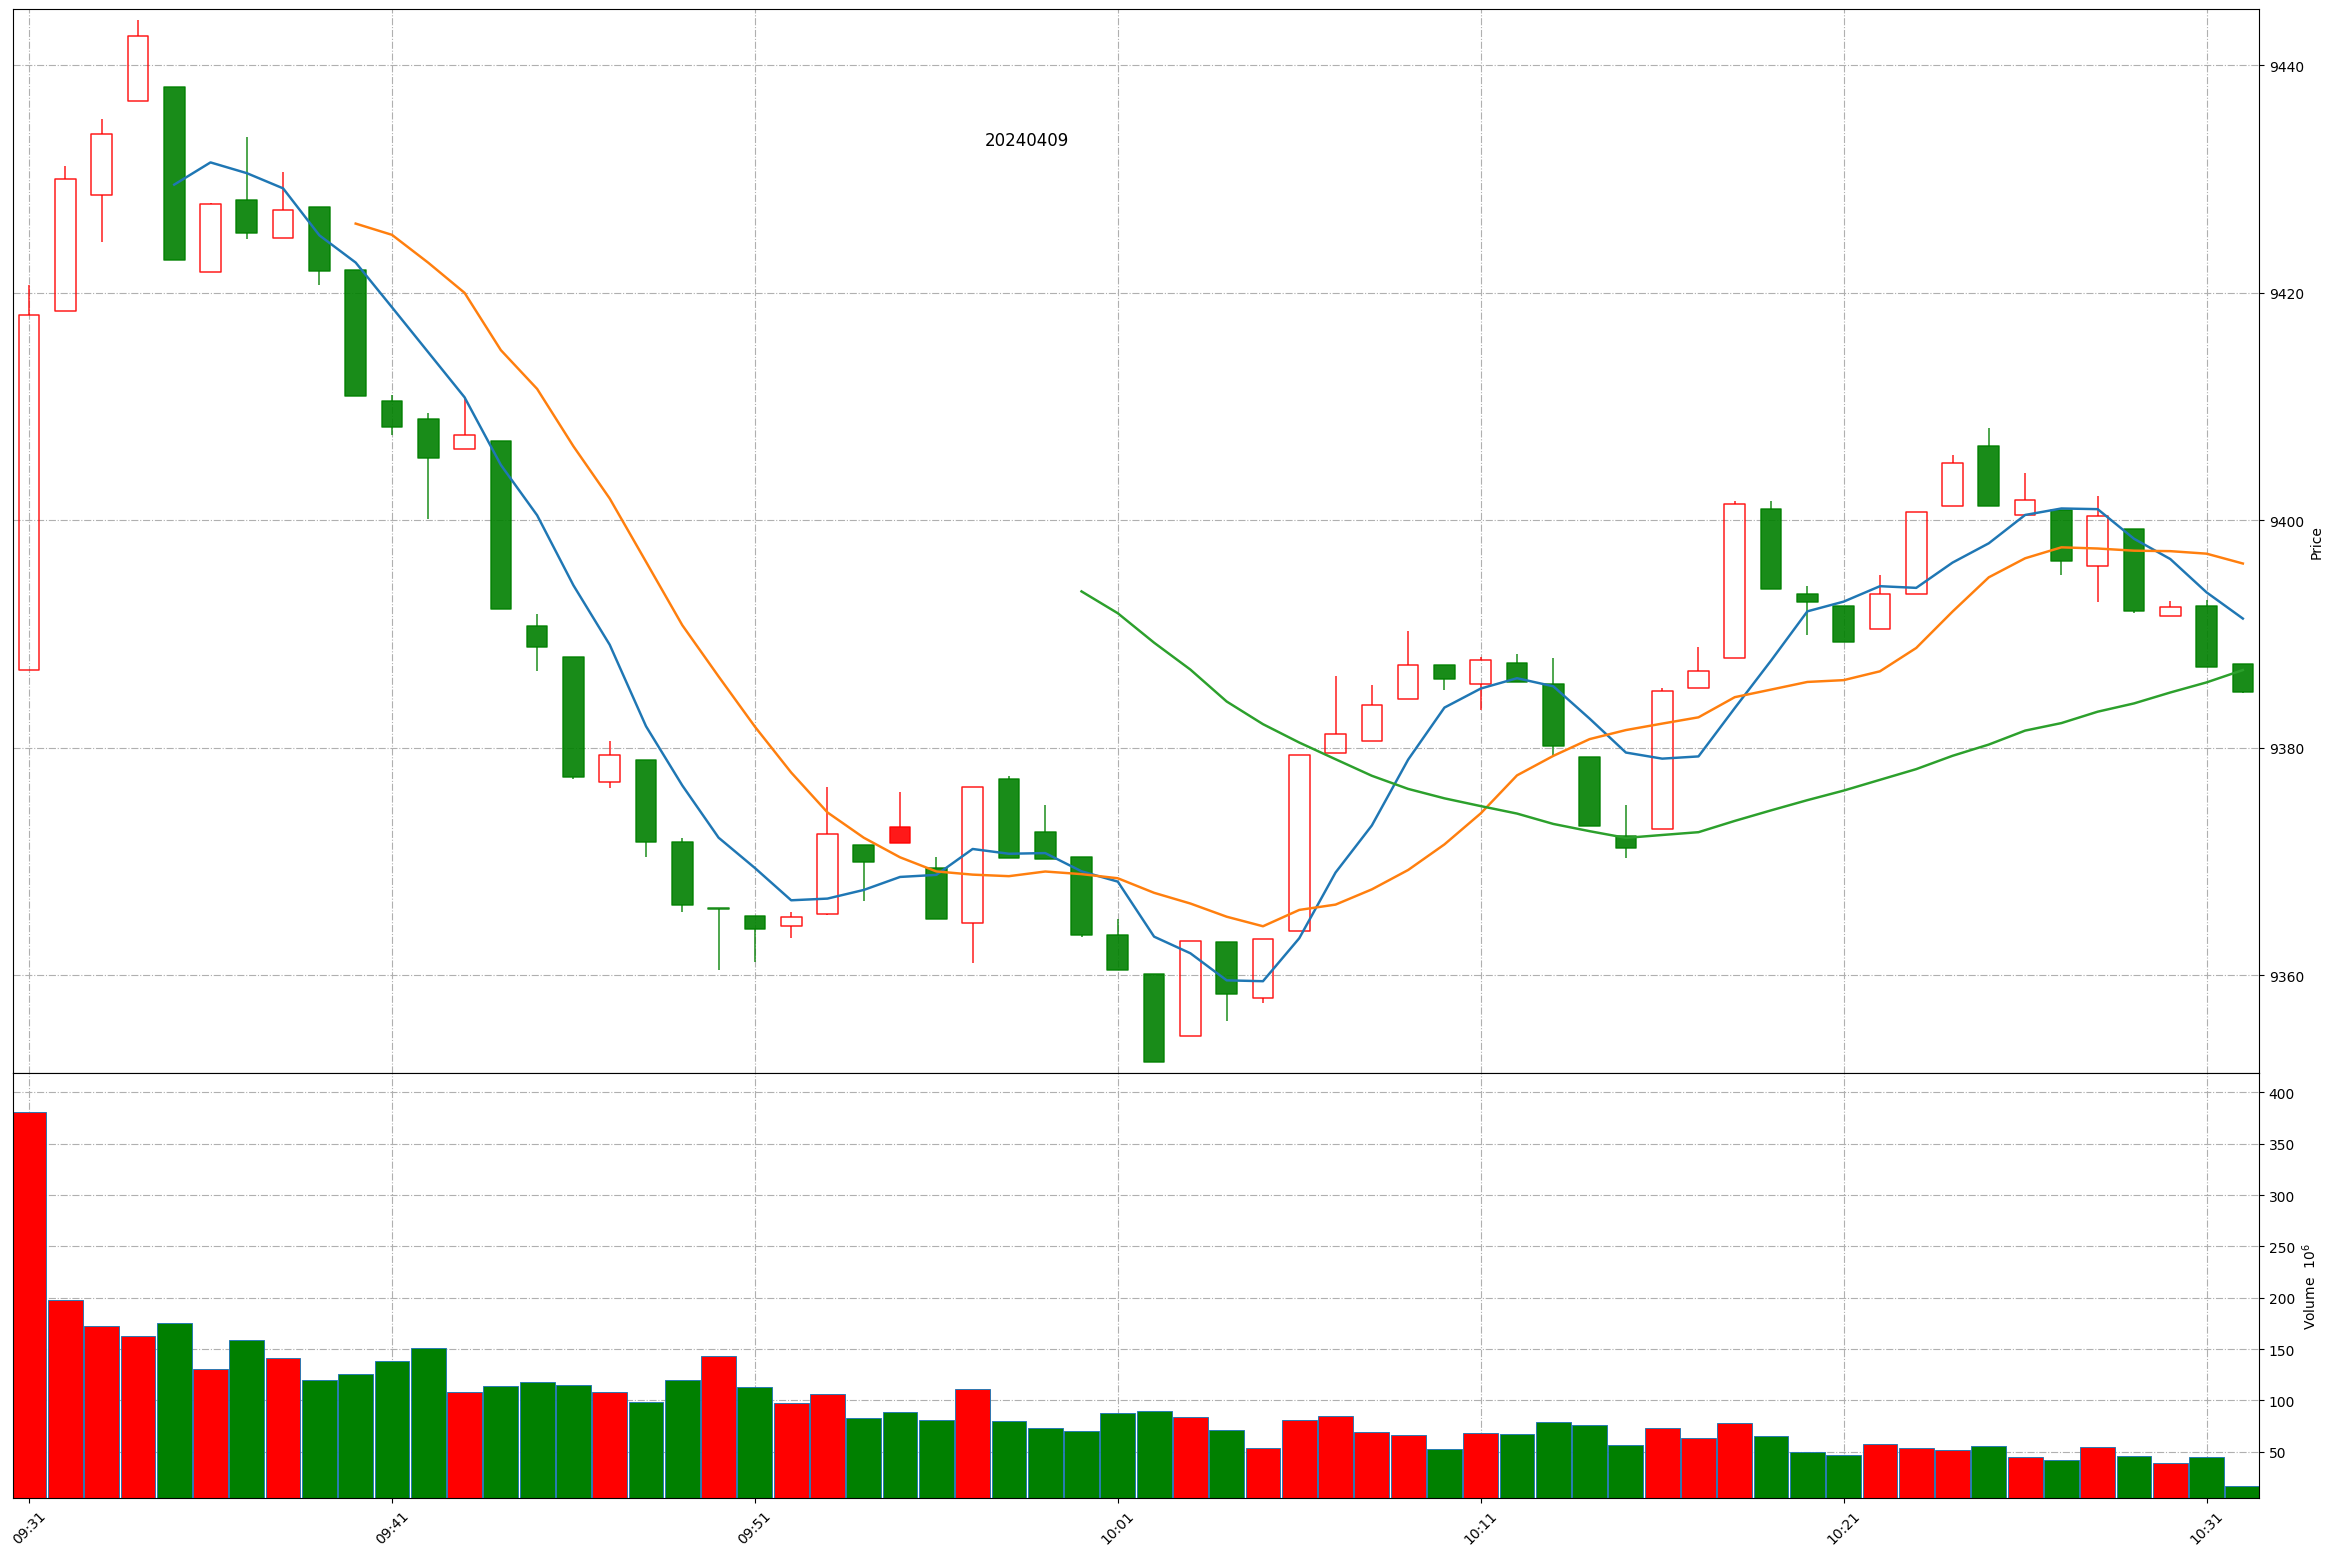
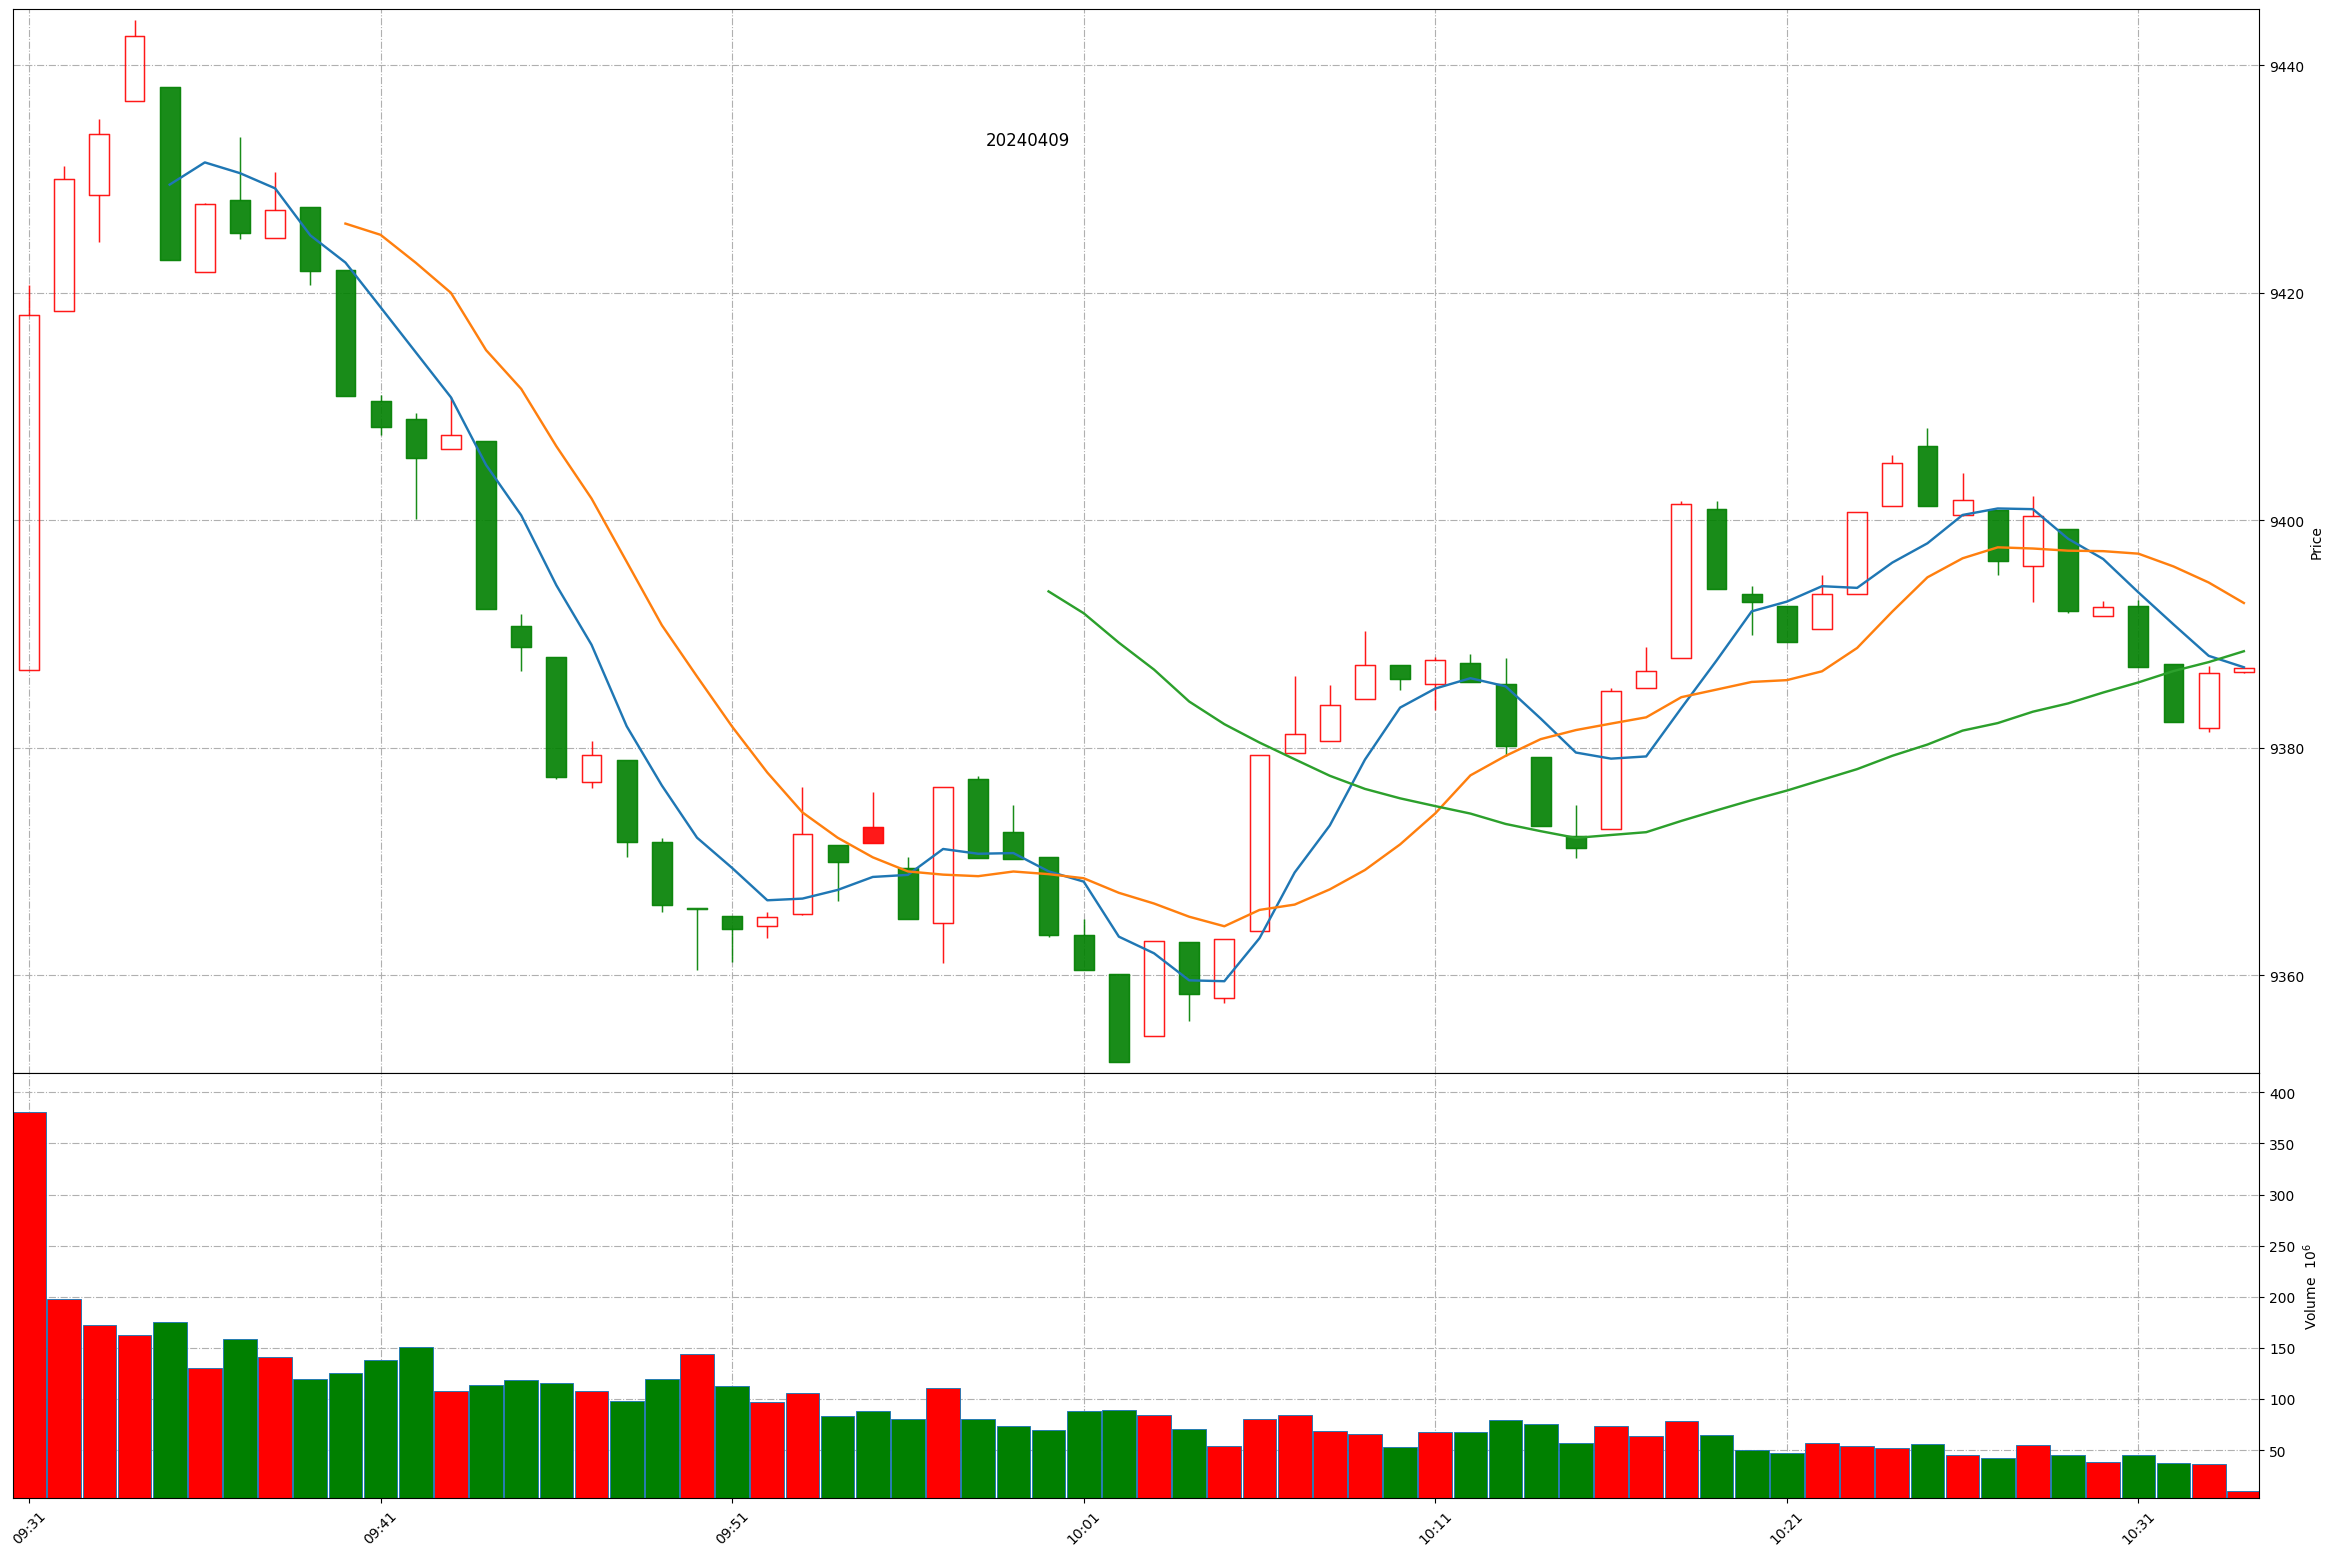
Github action update at 2024-04-09 10:33:33.

diff --git a/README.md b/README.md
@@ -1,11 +1,11 @@
 
 # Daily-A-share-market-quotes 每日 A 股指数（5min 更新）- 20240409
 
-### 上证指数 20240409 10:31
+### 上证指数 20240409 10:33
 ![](./fig/2024/4/20240409-sh000001.png)
 
-### 深证成指 20240409 10:31
+### 深证成指 20240409 10:33
 ![](./fig/2024/4/20240409-sz399001.png)
 
-### 北证50 20240409 10:31
+### 北证50 20240409 10:33
 ![](./fig/2024/4/20240409-bj899050.png)
